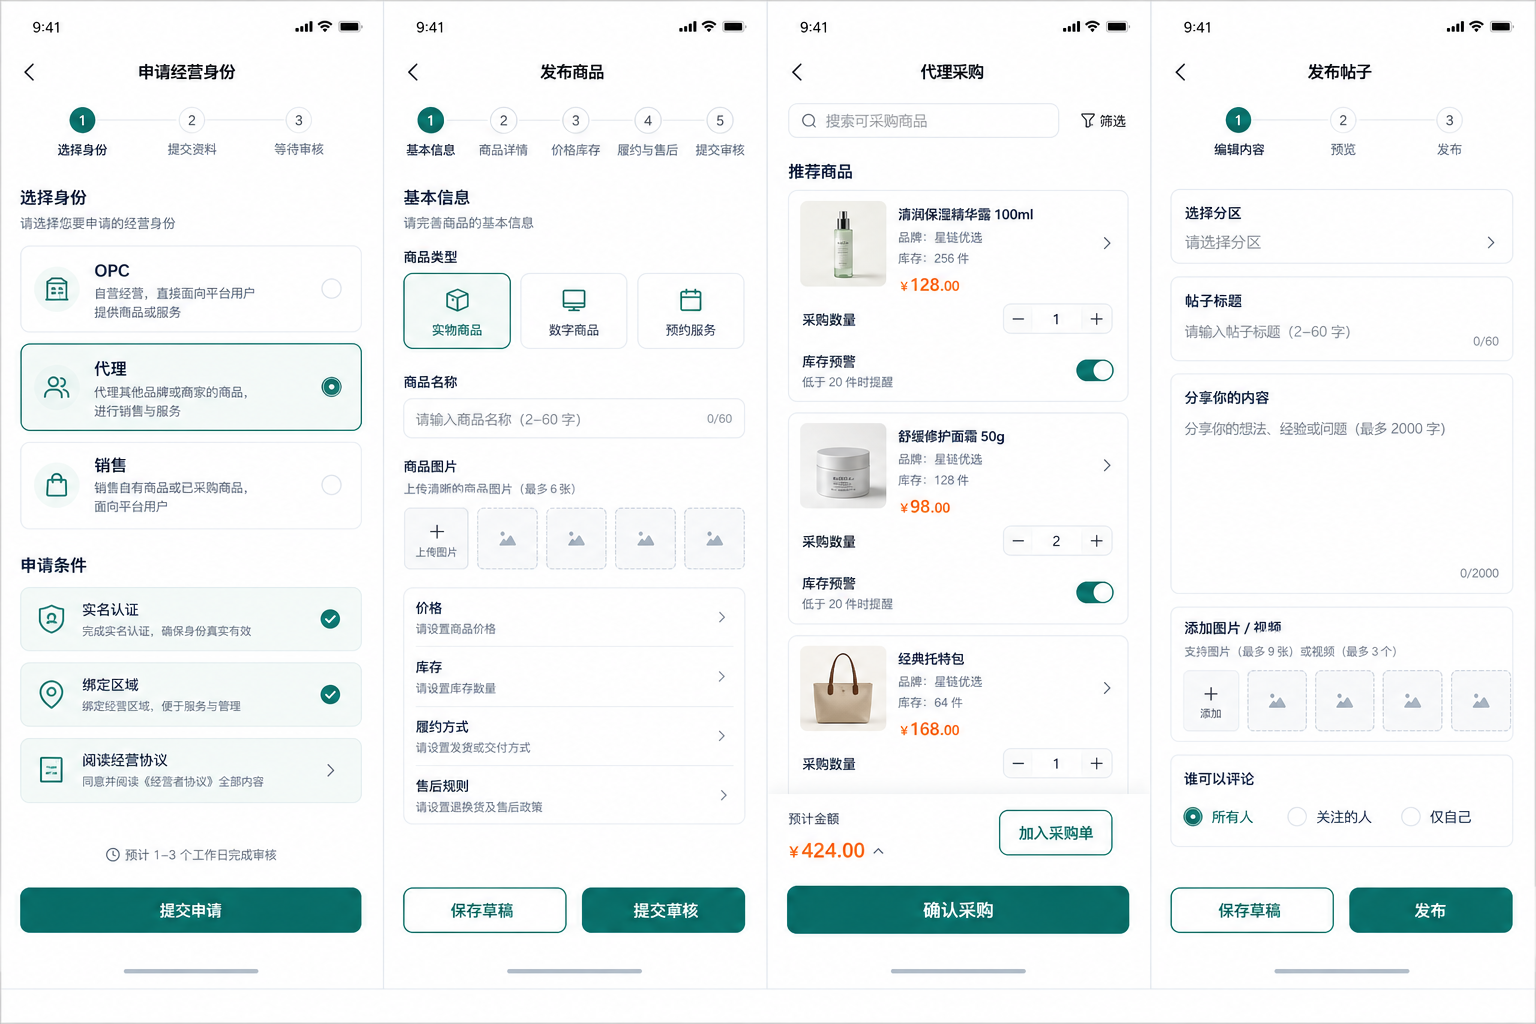
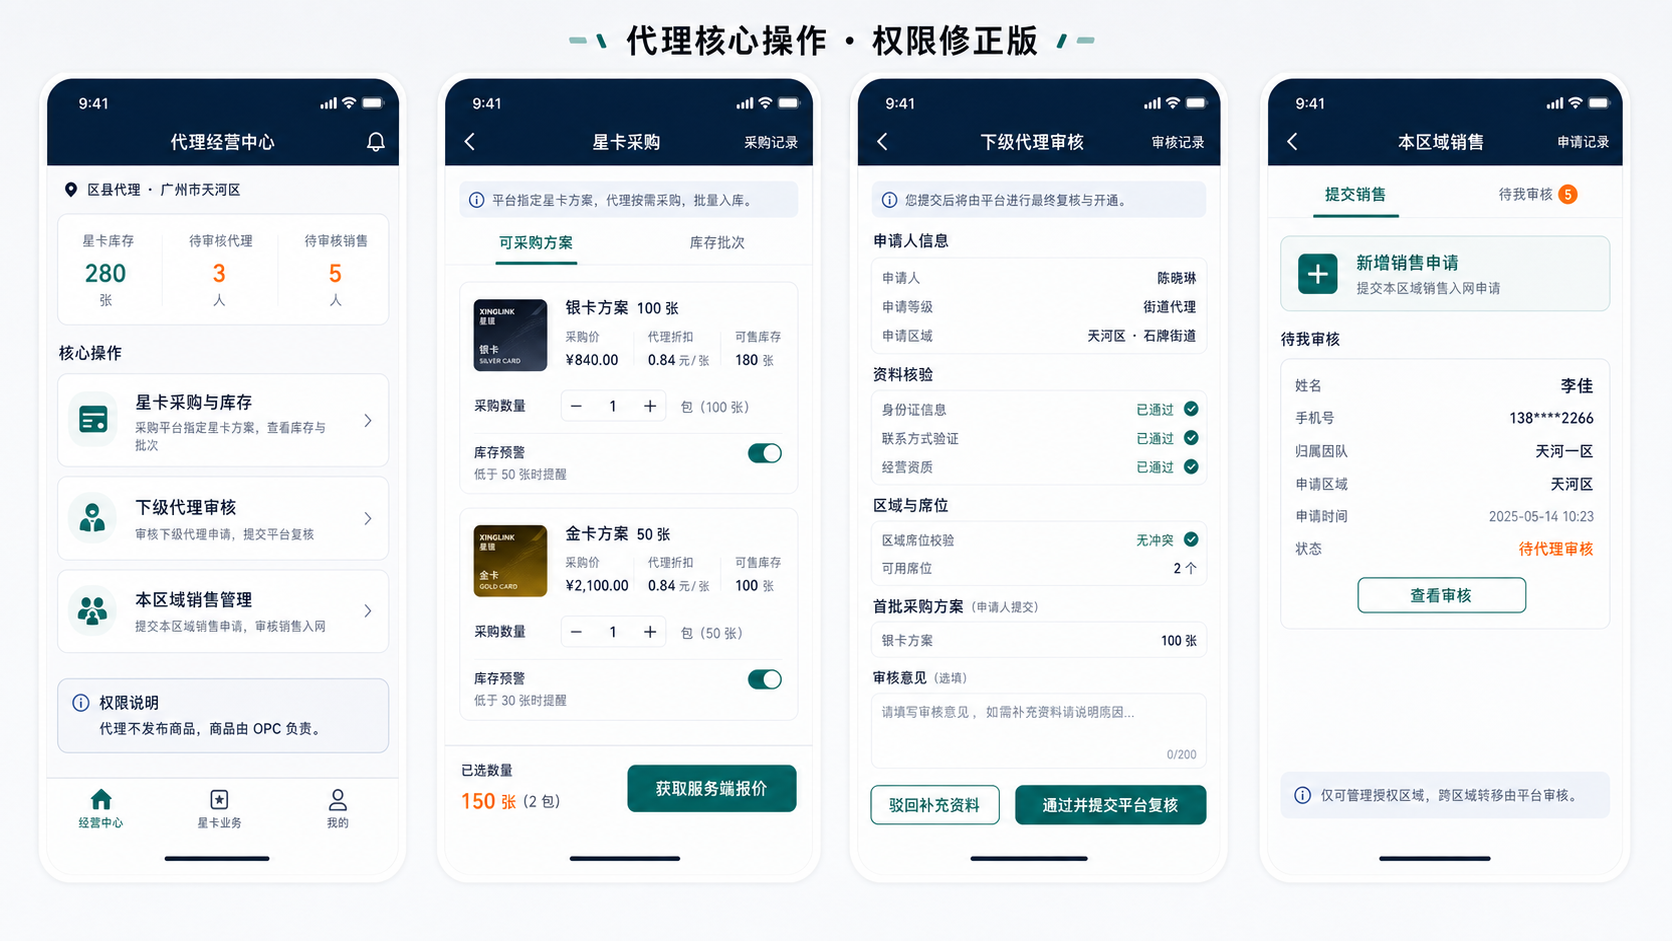
docs: correct public agent operation board

diff --git a/index.html b/index.html
@@ -83,7 +83,7 @@
         <figure><figcaption><div><b>20</b><strong>OPC 类目保证金缴纳</strong></div><span>选择类目 · 最高标准 · 确认支付 · 正式生效</span></figcaption><a href="./boards/20-opc-category-deposit-payment.png"><img src="./boards/20-opc-category-deposit-payment.png" alt="OPC 经营类目选择、保证金计算、支付与生效成品 UI" loading="lazy" /></a></figure>
         <figure><figcaption><div><b>21</b><strong>OPC 保证金与退保</strong></div><span>保证金账户 · 资格检查 · 提交退保 · 审核进度</span></figcaption><a href="./boards/21-opc-deposit-refund.png"><img src="./boards/21-opc-deposit-refund.png" alt="OPC 保证金账户、退保资格检查、退保申请与审核进度成品 UI" loading="lazy" /></a></figure>
         <figure><figcaption><div><b>22</b><strong>经营身份真实实施态</strong></div><span>多身份实况 · 身份详情 · 保证金宽限 · 退保限制</span></figcaption><a href="./boards/22-implemented-identity-deposit.png"><img src="./boards/22-implemented-identity-deposit.png" alt="多经营身份、OPC 保证金宽限与退保未开放真实实施态 UI" loading="lazy" /></a></figure>
-        <figure><figcaption><div><b>04</b><strong>核心业务表单</strong></div><span>身份申请 · 商品发布 · 采购 · 发帖</span></figcaption><a href="./boards/04-core-forms.png"><img src="./boards/04-core-forms.png" alt="经营申请、商品发布、采购和发帖成品 UI" /></a></figure>
+        <figure><figcaption><div><b>04</b><strong>代理核心操作</strong></div><span>星卡采购 · 下级代理审核 · 区域销售提交与审核</span></figcaption><a href="./boards/04-core-forms.png"><img src="./boards/04-core-forms.png" alt="代理星卡采购、下级代理审核与本区域销售管理成品 UI" /></a></figure>
         <figure><figcaption><div><b>08</b><strong>OPC 入驻与权限</strong></div><span>入驻 · 类目保证金 · 成员 · 子账号</span></figcaption><a href="./boards/08-opc-onboarding-permissions.png"><img src="./boards/08-opc-onboarding-permissions.png" alt="OPC 入驻、类目保证金、成员和权限成品 UI" loading="lazy" /></a></figure>
         <figure><figcaption><div><b>15</b><strong>子账号与讲师</strong></div><span>子账号工作台 · 讲师工作台 · 课时 · 预约</span></figcaption><a href="./boards/15-opc-subaccount-teacher.png"><img src="./boards/15-opc-subaccount-teacher.png" alt="OPC 子账号、讲师、课时和预约成品 UI" loading="lazy" /></a></figure>
         <figure><figcaption><div><b>09</b><strong>四类商品配置</strong></div><span>课程 · 实物 · 虚拟 · 预约</span></figcaption><a href="./boards/09-opc-product-types.png"><img src="./boards/09-opc-product-types.png" alt="OPC 四类商品配置成品 UI" loading="lazy" /></a></figure>

diff --git a/prompt-manifest.md b/prompt-manifest.md
@@ -18,7 +18,7 @@
 | 01 | 消费链路 | 手机号登录/注册（行政区域/下沉市场自由二选一、推荐人）、商城首页、课程详情 |
 | 02 | 账户与资产 | 我的、订单列表、资产中心 |
 | 03 | 经营工作台 | 经营身份总览、OPC、代理星卡、销售工作台 |
-| 04 | 核心业务表单 | 身份申请、商品发布、代理星卡进货、社区发帖 |
+| 04 | 代理核心操作 | 代理经营中心、星卡采购、下级代理审核、本区域销售提交与审核 |
 | 05 | 结算与履约 | 确认订单、支付成功、订单物流详情、申请售后 |
 | 06 | 会员与提现 | 会员中心、收益中心、申请提现、提现进度 |
 | 07 | 市场与社区任务 | 星卡市场、任务中心、帖子详情、在线客服 |

diff --git a/mobile-design-system.md b/mobile-design-system.md
@@ -13,7 +13,7 @@
 | 01 消费链路 | 登录/注册、游客首页、课程详情 |
 | 02 账户资产 | 我的账户、我的订单、资产中心 |
 | 03 经营工作台 | 经营身份总览、OPC 工作台、代理星卡工作台、销售工作台 |
-| 04 核心表单 | 经营身份申请、发布商品、代理星卡进货、发布帖子 |
+| 04 代理核心操作 | 星卡采购、下级代理审核、本区域销售提交与审核；代理无商品发布权限 |
 
 服务协议、区域选择、权限提示、错误提示、空状态和加载状态统一复用下述组件，不再为每个角色单独创建视觉体系。
 
